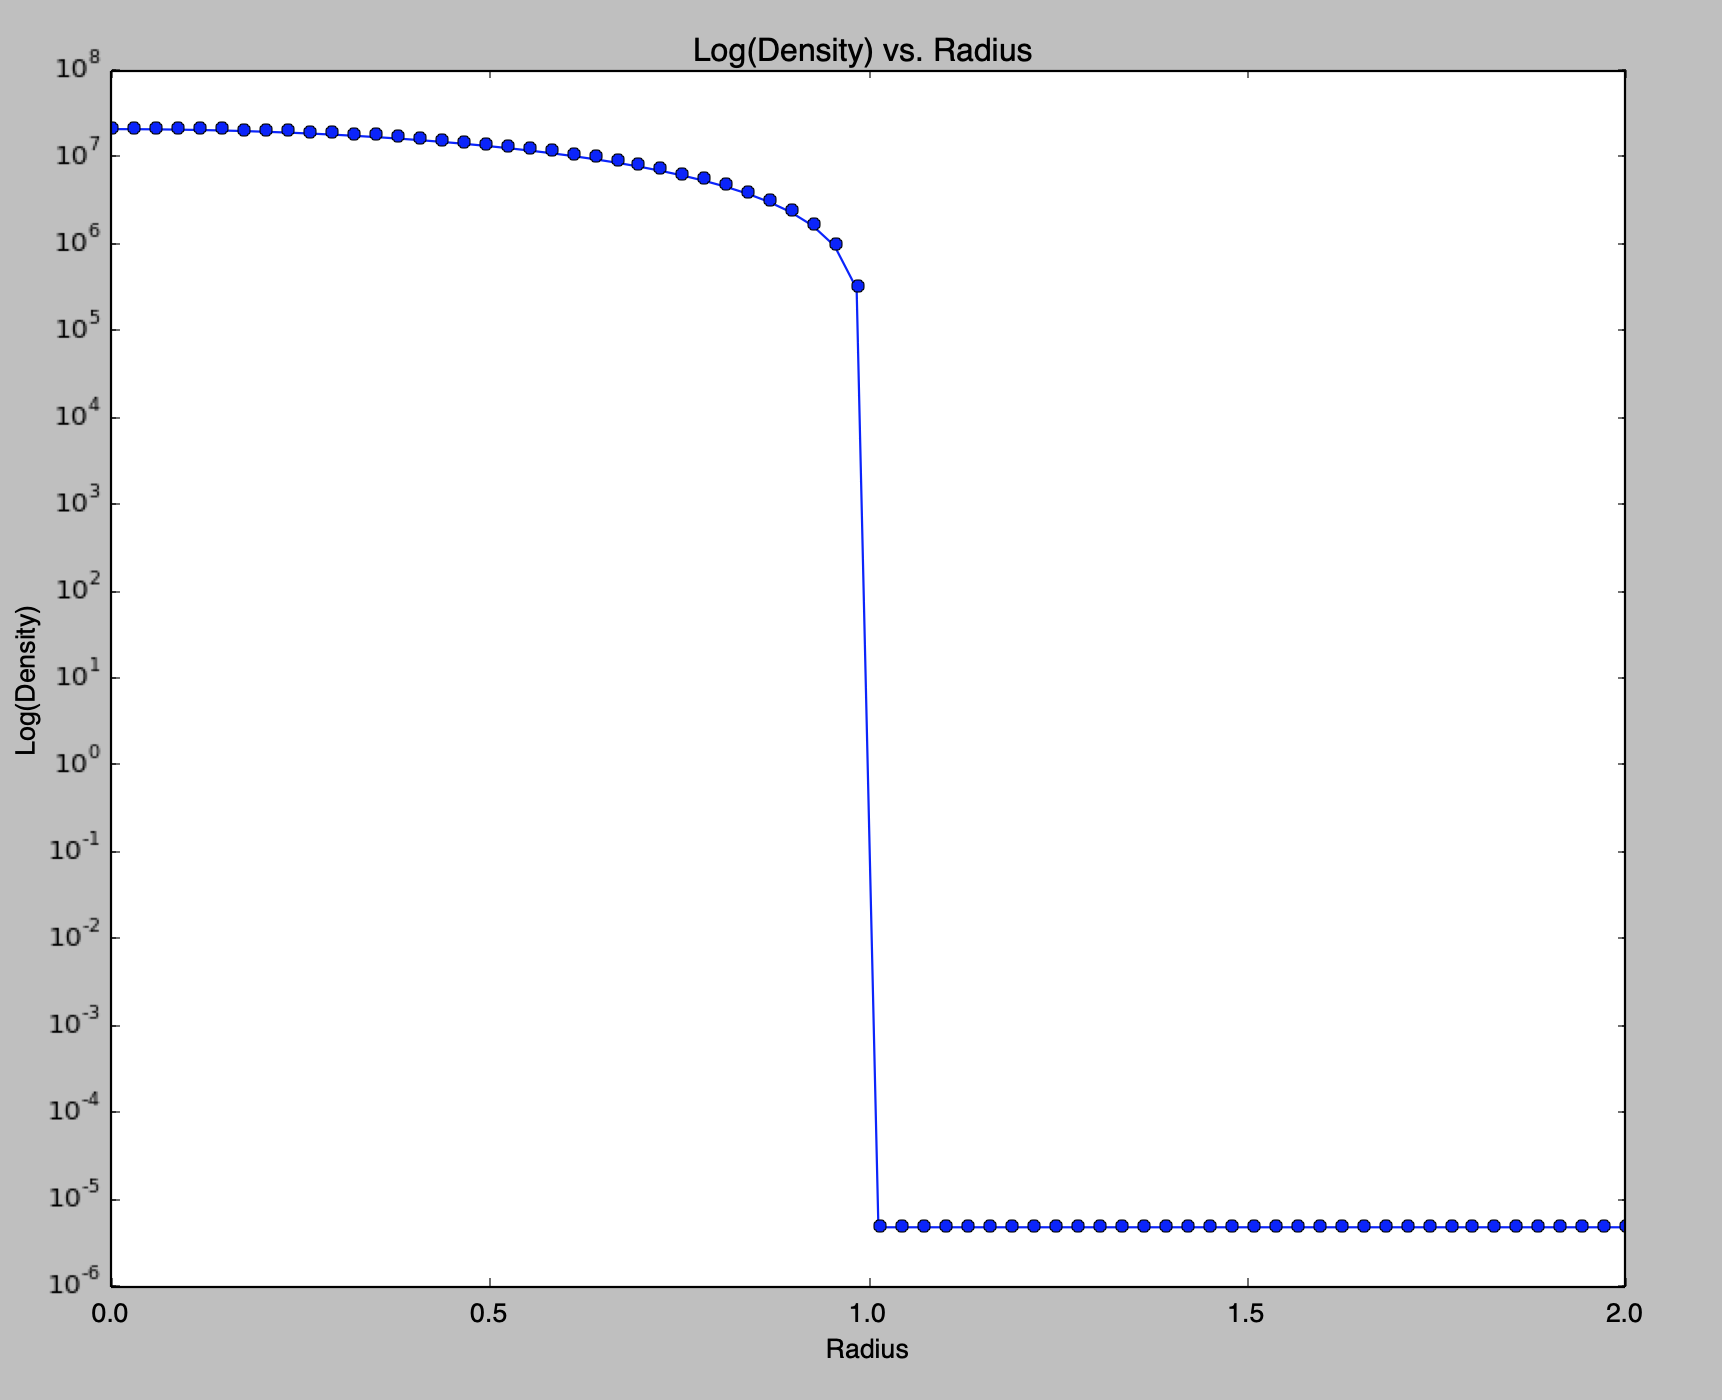
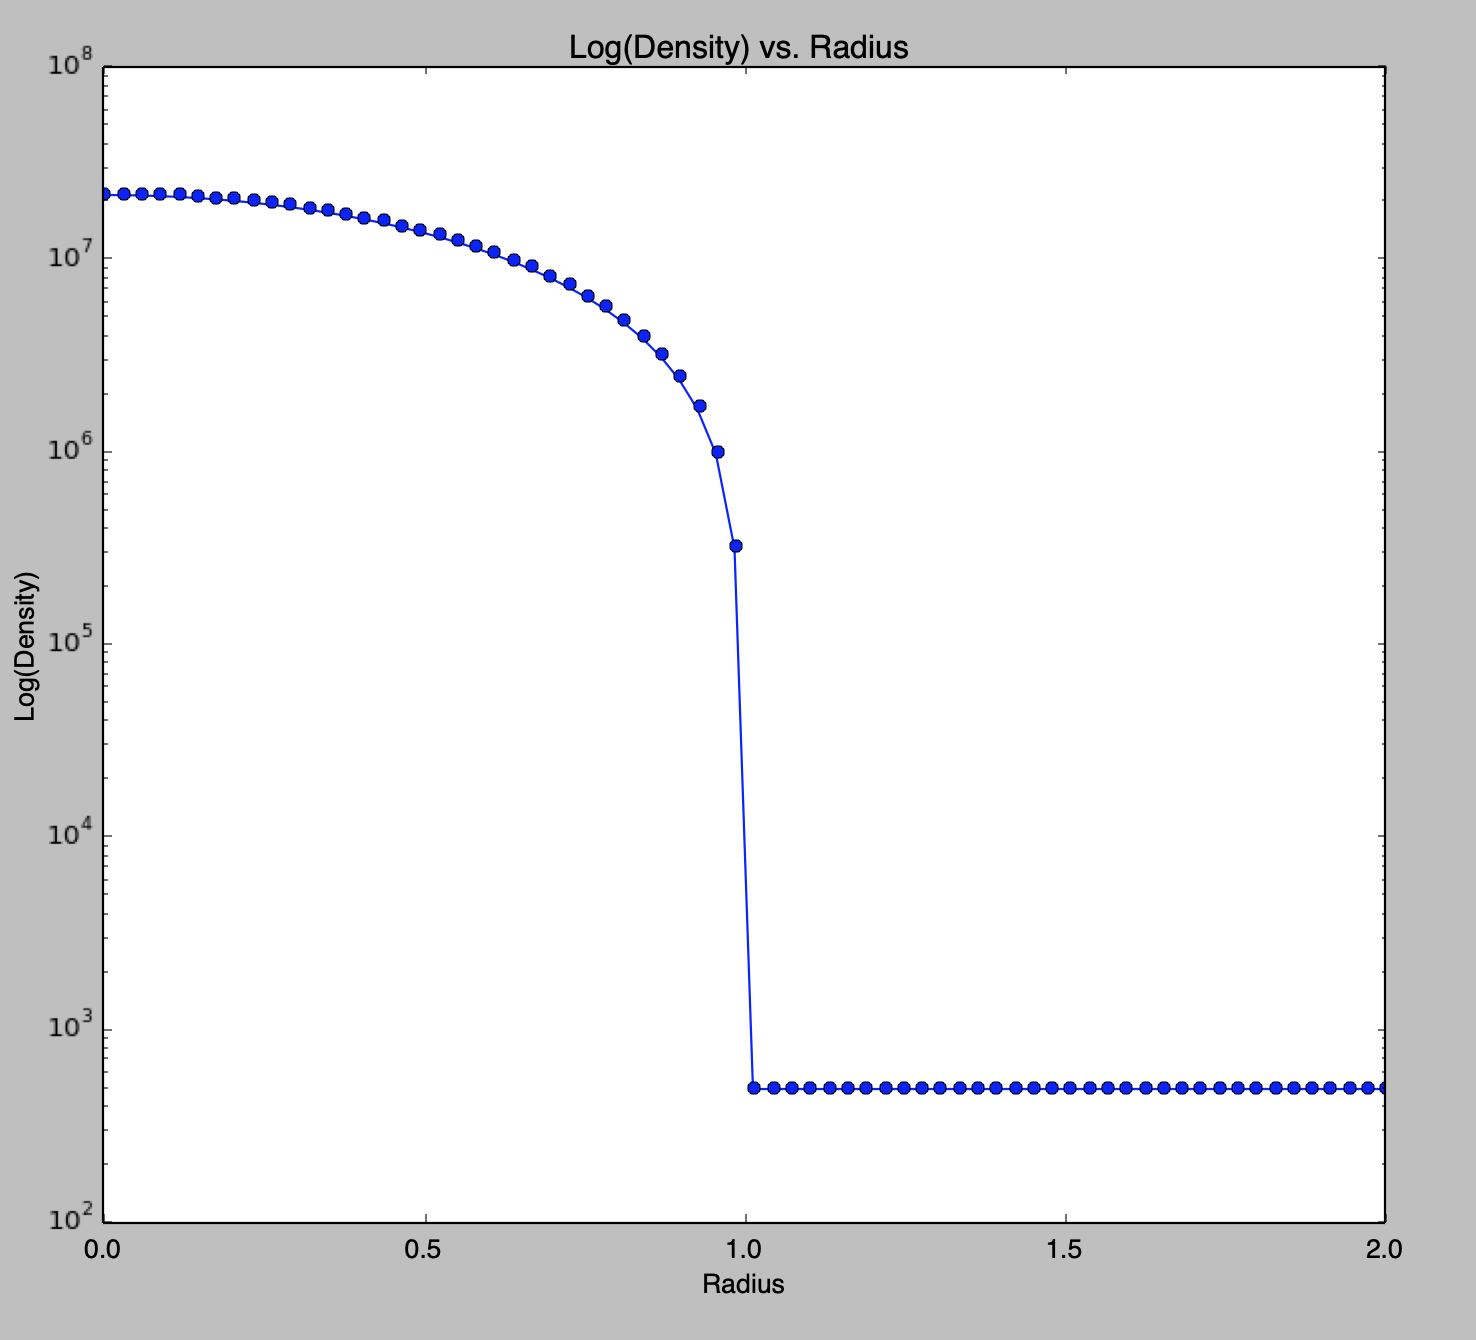
Corrected normalization, graphs

diff --git a/Python Files/Pressure and Density Analysis/Density_and_Pressure_Analysis.py b/Python Files/Pressure and Density Analysis/Density_and_Pressure_Analysis.py
@@ -30,8 +30,8 @@ for x1 in r:
         pressureval = K*RHO_C*RHO_C
         
     elif x1 >= 1.0:
-        rhoval = VACUUM / UNIT_DENSITY;
-        pressureval = (K*VACUUM*VACUUM)/(UNIT_DENSITY*UNIT_VELOCITY*UNIT_VELOCITY);
+        rhoval = VACUUM;
+        pressureval = (K*VACUUM*VACUUM);
         
     rhoval = rhoval / UNIT_DENSITY
     pressureval = pressureval / (UNIT_DENSITY*UNIT_VELOCITY*UNIT_VELOCITY)  
@@ -39,10 +39,11 @@ for x1 in r:
     rho.append(rhoval)
     pressure.append(pressureval) 
     
-# py.plot(r,rho,"ro-")
-py.plot(r,pressure,"ro-")
+
+py.plot(r,rho,"bo-")
+#py.plot(r,pressure,"ro-")
 py.yscale("log")
-py.title("Log(Pressure) vs. Radius ")
-py.ylabel("Log(Pressure)")
+py.title("Log(Density) vs. Radius ")
+py.ylabel("Log(Density)")
 py.xlabel("Radius")
 py.show()
